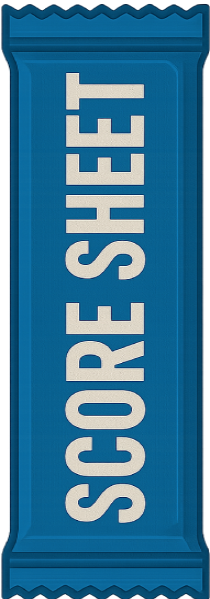
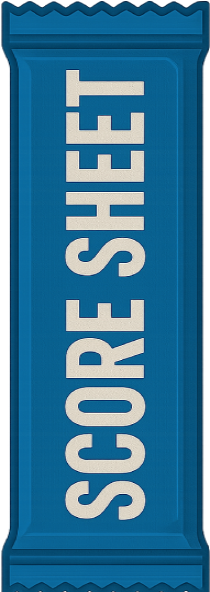
added wall image

diff --git a/src/styles.css b/src/styles.css
@@ -37,8 +37,7 @@ img {
     --border-radius: 8px;
     --tile-size: clamp(60px, 8vw, 103px);
     --tile-gap: 1rem;
-    --row-gap: calc(1.1rem + 1px);
-    /* Chute layout controls */
+    --row-gap: calc(1.2rem); 
     --chute-width: 93%; /* width of the chute area relative to its container */
     --chute-padding-left: 1.4rem;  /* left horizontal padding for chute */
     --chute-padding-right: 1.6rem; /* right horizontal padding for chute */
@@ -64,13 +63,16 @@ img {
     -webkit-font-smoothing: antialiased;
     -moz-osx-font-smoothing: grayscale;
     background-image: url('/images/rest/Wall.png');
-    background-size: auto;
-    background-position: center;
-    background-repeat: repeat;
+     /* Stretch the background to fill the viewport (width + height),
+       bottom edge remains anchored */
+     background-size: 100vw 100vh;
+     background-position: center bottom;
+    background-repeat: no-repeat;
     background-attachment: fixed;
     color: var(--color-text);
     line-height: 1.6;
     min-height: 100vh;
+    overflow-x: hidden; /* prevent horizontal scrolling */
   }
 
   /* ===================================
@@ -219,7 +221,9 @@ img {
       column-gap: var(--tile-gap);
       row-gap: var(--row-gap);
     justify-content: center;
-    align-content: end;
+    /* Anchor grid to the top so increasing `row-gap` actually increases
+       space between rows instead of shifting the whole grid upward. */
+    align-content: start;
     align-items: end;
     max-height: none;
     overflow: visible;

diff --git a/src/components/LeftColumn.jsx b/src/components/LeftColumn.jsx
@@ -20,7 +20,7 @@ function LeftColumn() {
             width: '60%',
             height: 'auto',
             display: 'block',
-            transform: 'translate(9%, -15%)',
+            transform: 'translate(10%, -30%)',
           }}
       />
     </aside>
